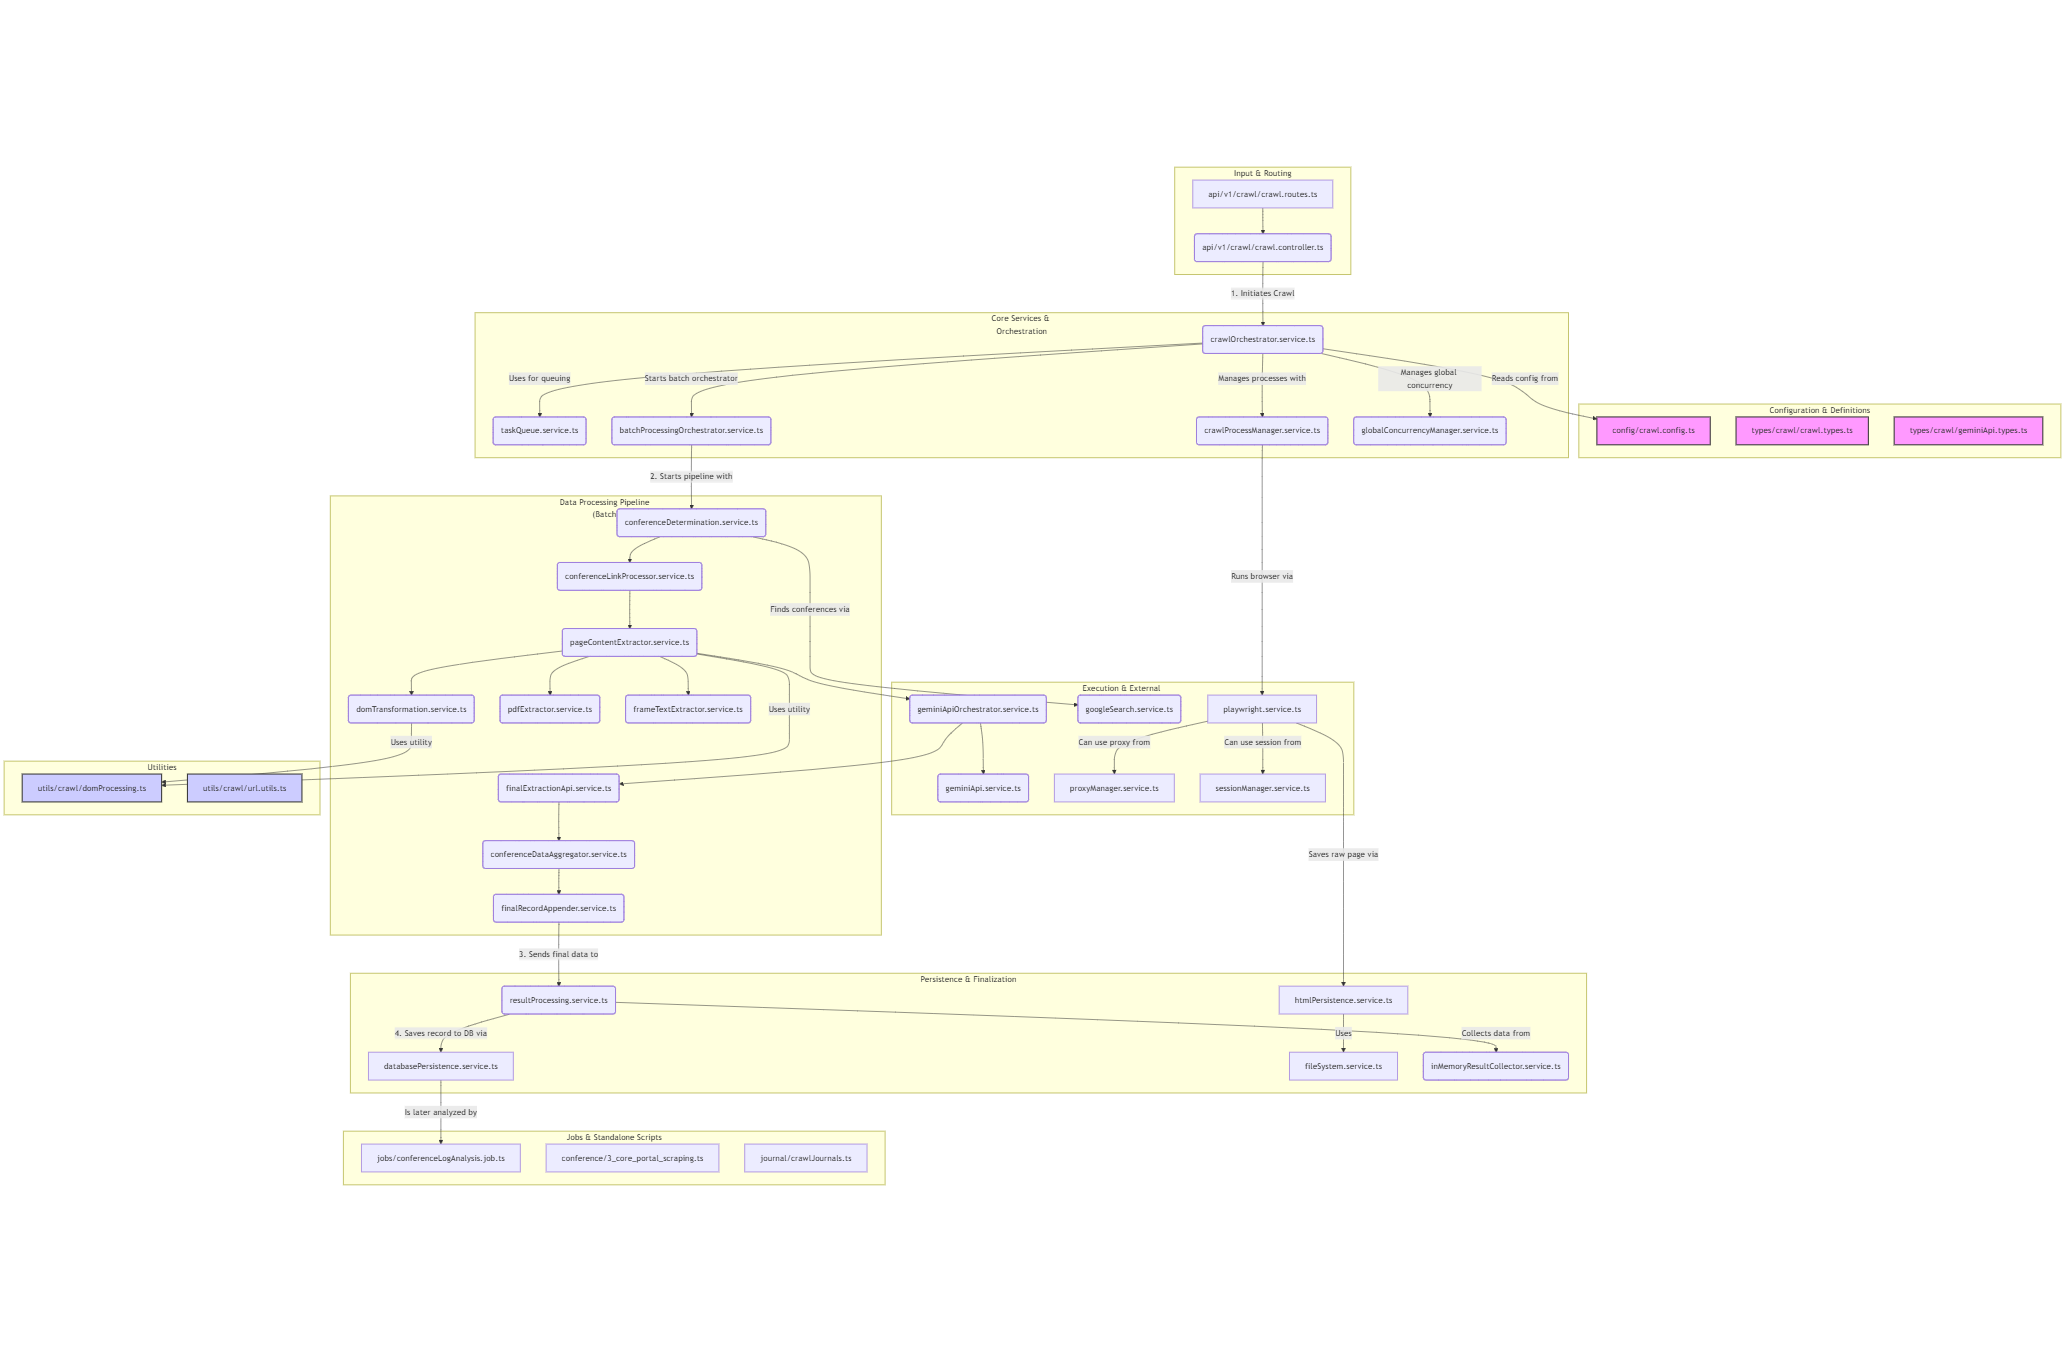
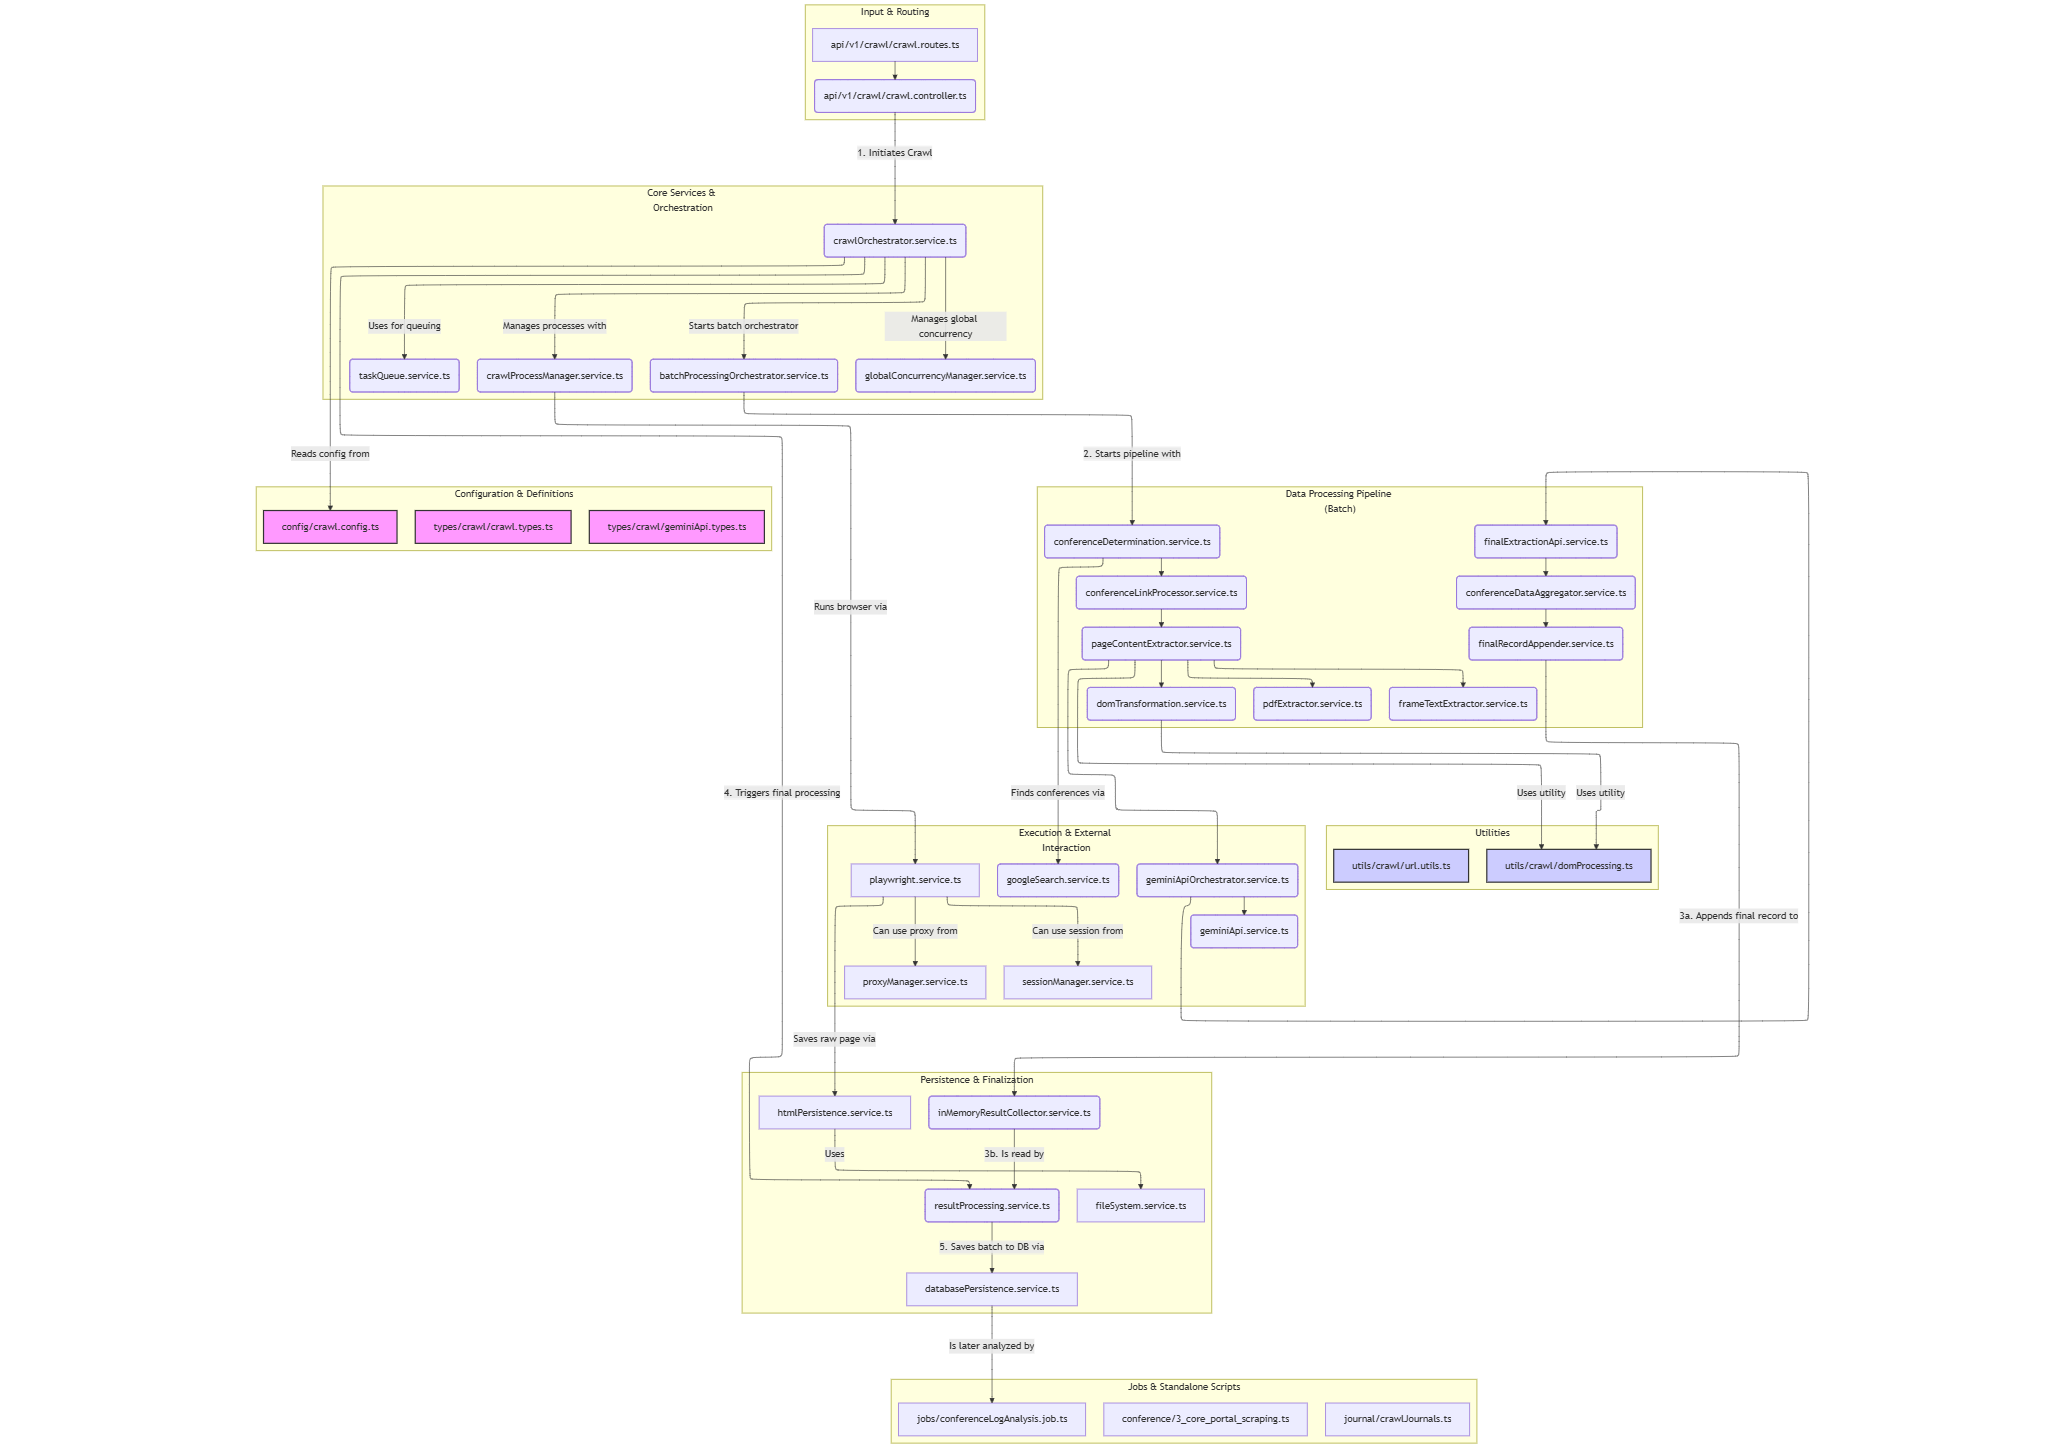
update

diff --git a/overview_crawl.md b/overview_crawl.md
@@ -696,15 +696,16 @@ graph TD
     E3 -- "Uses utility" --> G1;
     E4 -- "Uses utility" --> G1;
     
-    E8 -- "3. Sends final data to" --> F4;
-    F4 -- "Collects data from" --> F5;
-    F4 -- "4. Saves record to DB via" --> F1;
+    E8 -- "3a. Appends final record to" --> F5;
+    C1 -- "4. Triggers final processing" --> F4;
+    F5 -- "3b. Is read by" --> F4;
+    F4 -- "5. Saves batch to DB via" --> F1;
     F2 -- "Uses" --> F3;
 
     F1 -- "Is later analyzed by" --> H1;
 ```
 
-### Chú thích luồng xử lý chi tiết (Phiên bản đầy đủ)
+### Chú thích luồng xử lý chi tiết (Phiên bản đã điều chỉnh)
 
 Sơ đồ trên mô tả một kiến trúc toàn diện của hệ thống crawl. Luồng hoạt động có thể được chia thành các giai đoạn chính sau:
 
@@ -719,36 +720,25 @@ Sơ đồ trên mô tả một kiến trúc toàn diện của hệ thống craw
 
 **Giai đoạn 2: Thực thi và Xử lý dữ liệu (Pipeline)**
 
-Đây là chuỗi các bước xử lý dữ liệu được điều phối bởi `batchProcessingOrchestrator.service.ts`:
+Đây là chuỗi các bước xử lý dữ liệu được điều phối bởi `batchProcessingOrchestrator.service.ts`, lặp lại cho mỗi mục trong hàng đợi:
 
-3.  **Tìm kiếm và Xác định (Determination)**:
-    *   `conferenceDetermination.service.ts` sử dụng `googleSearch.service.ts` để tìm kiếm các trang web hội nghị tiềm năng.
-    *   Sau khi xác định được trang chủ, nó chuyển giao cho bước tiếp theo.
-4.  **Trích xuất Nội dung thô (Content Extraction)**:
-    *   `conferenceLinkProcessor.service.ts` nhận URL trang chủ, dùng `playwright.service.ts` để duyệt trang và tìm các liên kết con quan trọng.
-    *   `pageContentExtractor.service.ts` được gọi để lấy nội dung text từ các trang này. Nó có khả năng:
-        *   Xử lý DOM, biến đổi HTML bằng `domTransformation.service.ts`.
-        *   Trích xuất text từ `iframe` bằng `frameTextExtractor.service.ts`.
-        *   Trích xuất nội dung từ file PDF bằng `pdfExtractor.service.ts`.
-5.  **Phân tích bằng AI (AI Analysis)**:
-    *   Nội dung text thô được đưa đến `geminiApiOrchestrator.service.ts`.
-    *   Service này quản lý việc gọi đến `geminiApi.service.ts` để thực hiện các tác vụ như tóm tắt, phân loại, và trích xuất thông tin có cấu trúc bằng mô hình ngôn ngữ lớn.
-6.  **Trích xuất và Tổng hợp (Final Extraction & Aggregation)**:
-    *   `finalExtractionApi.service.ts` nhận kết quả từ AI và trích xuất ra các trường dữ liệu cuối cùng (tên hội nghị, ngày, địa điểm,...).
-    *   `conferenceDataAggregator.service.ts` tổng hợp dữ liệu từ nhiều nguồn khác nhau để tạo ra một bản ghi thống nhất.
+*   **Tìm kiếm và Xác định (Determination)**: `conferenceDetermination.service.ts` sử dụng `googleSearch.service.ts` để tìm kiếm và xác định trang web chính thức của hội nghị.
+*   **Trích xuất Nội dung thô (Content Extraction)**: `conferenceLinkProcessor.service.ts` và `pageContentExtractor.service.ts` làm việc cùng nhau để duyệt trang, tìm các liên kết quan trọng, và trích xuất nội dung text từ HTML (sử dụng `domTransformation.service.ts`), PDF (`pdfExtractor.service.ts`), hoặc `iframe` (`frameTextExtractor.service.ts`).
+*   **Phân tích bằng AI (AI Analysis)**: Nội dung text thô được đưa đến `geminiApiOrchestrator.service.ts` để phân tích và nhận dạng thông tin bằng mô hình ngôn ngữ lớn.
+*   **Trích xuất và Tổng hợp (Final Extraction & Aggregation)**: `finalExtractionApi.service.ts` trích xuất dữ liệu có cấu trúc từ kết quả của AI, và `conferenceDataAggregator.service.ts` tổng hợp các mảnh dữ liệu lại thành một bản ghi hội nghị thống nhất.
 
-**Giai đoạn 3: Hoàn tất và Lưu trữ**
+**Giai đoạn 3: Thu thập, Hoàn tất và Lưu trữ**
 
-7.  **Finalization**: `finalRecordAppender.service.ts` gửi bản ghi thống nhất đến `resultProcessing.service.ts`.
-8.  **Persistence**:
-    *   `resultProcessing.service.ts` thu thập tất cả kết quả từ `inMemoryResultCollector.service.ts` và thực hiện các bước xử lý cuối cùng.
-    *   Cuối cùng, nó gọi `databasePersistence.service.ts` để lưu bản ghi hoàn chỉnh vào cơ sở dữ liệu.
-    *   Song song đó, `htmlPersistence.service.ts` (sử dụng `fileSystem.service.ts`) lưu lại mã HTML của các trang đã crawl để phục vụ việc gỡ lỗi.
+3.  **Thu thập kết quả (Result Collection)**:
+    *   **(3a)** `finalRecordAppender.service.ts` nhận bản ghi đã được tổng hợp hoàn chỉnh và **ghi nó vào kho chứa tạm** `inMemoryResultCollector.service.ts`. Quá trình này lặp lại cho mỗi hội nghị được xử lý.
+4.  **Xử lý cuối cùng (Final Processing)**:
+    *   **(4)** Sau khi tất cả các task trong hàng đợi đã chạy xong, `crawlOrchestrator.service.ts` sẽ kích hoạt `resultProcessing.service.ts` để bắt đầu giai đoạn cuối.
+    *   **(3b)** `resultProcessing.service.ts` **đọc toàn bộ dữ liệu** đã được thu thập từ `inMemoryResultCollector.service.ts`.
+5.  **Lưu trữ vĩnh viễn (Persistence)**:
+    *   **(5)** `resultProcessing.service.ts` thực hiện các chuyển đổi cuối cùng (nếu cần) và gọi `databasePersistence.service.ts` để **lưu toàn bộ lô dữ liệu** xuống cơ sở dữ liệu.
 
 **Các thành phần khác:**
 
-*   **Utilities**: Các file trong `utils/` cung cấp các hàm tiện ích tái sử dụng, ví dụ như `domProcessing.ts` cho việc xử lý DOM.
-*   **Configuration & Definitions**: Các file trong `config/` và `types/` định nghĩa cấu trúc dữ liệu và các tham số cấu hình, đảm bảo tính nhất quán và dễ bảo trì.
-*   **Jobs & Standalone Scripts**:
-    *   `conferenceLogAnalysis.job.ts`: Một tác vụ chạy nền, định kỳ phân tích dữ liệu đã được lưu trong DB để tạo báo cáo hoặc insights.
-    *   `3_core_portal_scraping.ts`, `crawlJournals.ts`: Là các script độc lập có thể được chạy để thực hiện các tác vụ crawl chuyên biệt.
+*   **Utilities**: Các file trong `utils/` cung cấp các hàm tiện ích tái sử dụng.
+*   **Configuration & Definitions**: Các file trong `config/` và `types/` định nghĩa cấu trúc dữ liệu và các tham số cấu hình.
+*   **Jobs & Standalone Scripts**: Các tác vụ chạy nền hoặc độc lập như `conferenceLogAnalysis.job.ts` để phân tích dữ liệu đã có trong CSDL.
